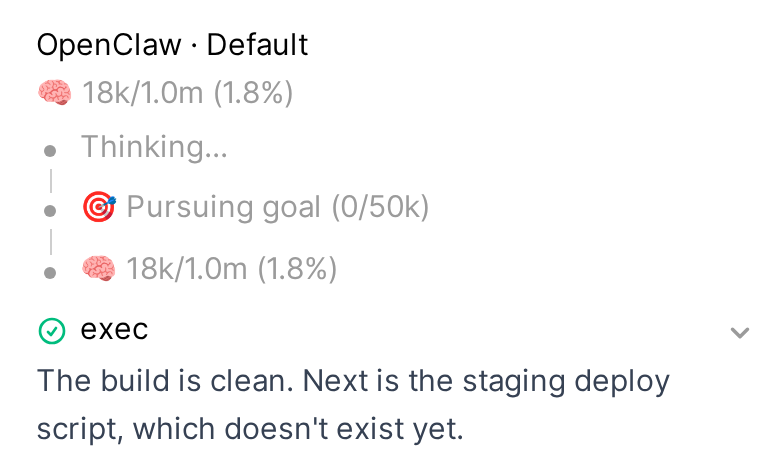
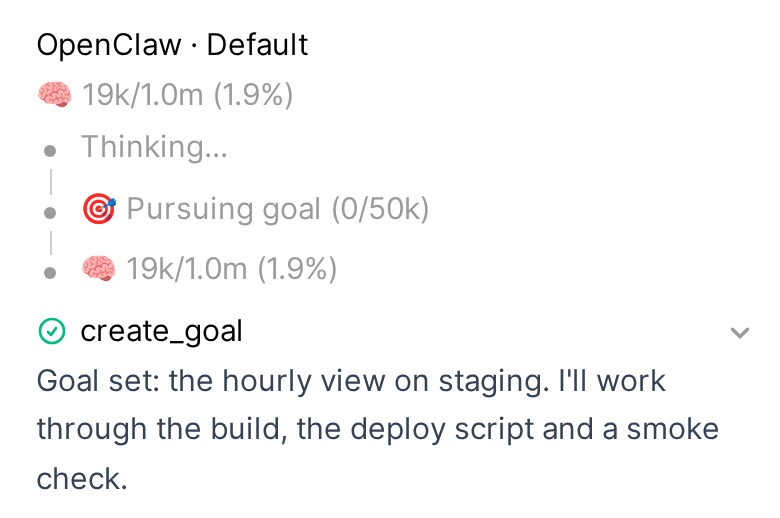
ELI-361: usage-goal scene ends the goal at the Gateway, no race with its continuation loop (#348)
* ELI-361: the usage-goal scene ends the goal at the Gateway instead of racing its continuation loop

From OpenClaw 2026.10.10 an active goal queues its own 'Advance the active goal'
turn after every clean turn, until the goal is no longer active. The scene
clicked Stop (a button that exists only while a reply streams), waited for it to
go, sent a second message and clicked Stop again at the end if it was there: all
racing the loop, and a missed final Stop leaves the loop running through every
scene after it (baseline 10 runs: 11 active goals left, 77 model requests).

The reply that sets the goal already carries the goal row, so the scene shoots
that one and clears the goal with sessions.goal.clear once the reply is done,
then waits for hasActiveRun to be false. No Stop clicks, no second message, no
sleeps.

* ELI-361: re-record usage-goal-light.png (the reply that sets the goal)

* ELI-361 review: find the session by key, wait for an idle row that was seen, end the goal when the reply wait fails (+ unit tests)

---------

diff --git a/scripts/screenshots/capture.py b/scripts/screenshots/capture.py
@@ -30,6 +30,7 @@ import time
 import traceback
 import urllib.error
 import urllib.request
+import uuid
 
 from playwright.sync_api import Page, sync_playwright
 
@@ -320,6 +321,34 @@ def gateway_call(method: str, params: dict) -> dict:
     return json.loads(out.stdout[out.stdout.find("{"):])
 
 
+def session_row(session_key: str) -> dict | None:
+    """The session's row from the Gateway (sessions.list: its goal and hasActiveRun),
+    None when it has none. Asked by key (`search`), because a stack that has run many
+    scenes holds more sessions than one page of the plain list."""
+    rows = gateway_call("sessions.list", {"search": session_key, "limit": 200}).get("sessions") or []
+    return next((r for r in rows if r.get("key") == session_key), None)
+
+
+def end_goal(session_key: str) -> None:
+    """Clear the session's goal, if it has one, and wait until it is seen idle.
+
+    From OpenClaw 2026.10.10 an active goal queues its own "Advance the active
+    goal" turn after every clean turn, and each of those queues the next, until
+    the goal is no longer active (the Gateway checks it before it starts a
+    queued one). Nothing on the page ends that: a Stop button exists only while
+    a reply streams, and a click that misses leaves the loop running through
+    every scene after. The Gateway's own goal clear does, and `hasActiveRun`
+    says when the last turn is over: the wait is for a row that is seen with no
+    goal and no active run, never for a row that is missing."""
+    goal = (session_row(session_key) or {}).get("goal")
+    if goal:
+        gateway_call("sessions.goal.clear", {"sessionKey": session_key, "goalId": goal["id"],
+                                             "operationId": str(uuid.uuid4()), "issuedAtMs": int(time.time() * 1000)})
+    poll(lambda: session_row(session_key),
+         lambda row: row is not None and not row.get("goal") and not row.get("hasActiveRun"),
+         f"the session {session_key} with no goal and no run", TURN_TIMEOUT_MS / 1000)
+
+
 def gateway_release() -> tuple:
     """(year, month, patch) of the stack's OpenClaw: some shots need a newer one."""
     out = subprocess.run(["openclaw", "--version"], capture_output=True, text=True, timeout=60)
@@ -443,7 +472,7 @@ ELAPSED_CELLS = """() => [...document.querySelectorAll('#openclaw-status-section
 FIRST_ASSISTANT = "document.querySelector('.chat-assistant')"
 REBUILD_SAYS = "Rebuilding the cache from the forecast API."
 REBUILD_DONE = "The cache is rebuilt"
-GOAL_ANSWER = "Next is the staging deploy script"
+GOAL_ANSWER = "Goal set: the hourly view on staging"
 # From OpenClaw 2026.10.10 the Gateway steers a message sent while a run works
 # into that run: the run ends its reply at the next step and the scripted
 # model answers the new message, so the rebuild's closing line is never said
@@ -1108,23 +1137,27 @@ class Scenes:
         the session's goal, which the agent set with its create_goal tool.
 
         From OpenClaw 2026.10.10 an active goal keeps the session going: after
-        each turn the Gateway queues its own "Advance the active goal" turn
-        (scenes.json answers it slowly, so the loop is a turn every few
-        seconds, not a flood). The replies of those turns pile up under the
-        scene's, so the scene holds the reply that answers its message, never
-        "the last one"."""
+        each clean turn the Gateway queues its own "Advance the active goal"
+        turn, and each of those queues the next. The scene needs no second
+        message: the reply that sets the goal already carries the goal row.
+        The moment it is finished the scene clears the goal through the
+        Gateway, so no turn of the loop runs under the shot or through the
+        scenes after (a Stop click cannot do that: see `end_goal`)."""
         new_chat(page)
         chat = send(page, "Keep at it until the hourly view is on staging.")
-        wait_js(page, last_text_has("Goal set"), "the reply that sets the goal")
-        # The goal keeps the session going, and a message sent while it does is
-        # held behind the loop for minutes (steered into a follow-up turn it
-        # cannot join). Stop ends the running turn and the queued ones; the goal
-        # stays active, and the next message is an ordinary turn.
-        page.locator('button[aria-label="Stop"]').click()
-        wait_js(page, "() => !document.querySelector('button[aria-label=\"Stop\"]')", "the goal's turn stopped")
-        send(page, "Start with the build.")
+        me = api("GET", "/api/v1/auths/", token=self.token)
         answer = reply_with(GOAL_ANSWER)
-        wait_js(page, reply_done_js(answer), "the reply that answers, finished")
+        key = f"agent:main:openwebui-{me['id']}-{chat}"
+        try:
+            wait_js(page, reply_done_js(answer), "the reply that sets the goal, finished")
+        except BaseException:
+            # The goal may exist already: without this it keeps the session going through the scenes after.
+            try:
+                end_goal(key)
+            except Exception as e:
+                print(f"  could not end the goal of {key}: {e}", flush=True)
+            raise
+        end_goal(key)
         set_title(self.token, chat, "Hourly view to staging")
         # Open the status history. From Open WebUI 0.13 a transparent "Toggle status history"
         # button lies over the status line and takes the click.
@@ -1151,10 +1184,6 @@ class Scenes:
         }}"""
         self.s.shot(page, "usage-goal", clip_js=clip,
                     text_selector=f'.chat-assistant:has-text("{GOAL_ANSWER}") >> nth=-1')
-        # The goal stays active; stop its loop so it does not run through the scenes after.
-        stop = page.locator('button[aria-label="Stop"]')
-        if stop.count():
-            stop.first.click()
 
     def compaction_note(self, page: Page) -> None:
         """A context compaction in the middle of a reply (the sample plugin

diff --git a/tests/test_usage_goal_scene_unit.py b/tests/test_usage_goal_scene_unit.py
@@ -1,0 +1,87 @@
+"""capture.py: the usage-goal scene ends the session's goal at the Gateway (ELI-361,
+review on #348): the session is found by key past the first page, the wait is for an
+idle row that was seen, and a failed reply wait clears the goal too."""
+import unittest
+from unittest import mock
+
+from _paged_sessions import PagedSessions, crowd
+from test_screenshot_selection_unit import capture
+
+KEY = "agent:main:openwebui-user-me-chat1"
+
+
+class Gateway:
+    """sessions.list and sessions.goal.clear over a PagedSessions: a clear ends the
+    goal at once, the session's last turn a few reads later."""
+
+    def __init__(self, *, goal=True, busy_reads=2, rows=None):
+        row = {"key": KEY, "hasActiveRun": True, "status": "running"}
+        if goal:
+            row["goal"] = {"id": "g1", "status": "active"}
+        self.sessions = PagedSessions(rows if rows is not None else crowd(KEY, busy=True))
+        self.row = next(r for r in self.sessions.rows if r["key"] == KEY)
+        self.row.update(row)
+        self.busy_reads, self.cleared = busy_reads, []
+
+    def __call__(self, method, params):
+        if method == "sessions.goal.clear":
+            self.cleared.append(params)
+            self.row.pop("goal", None)
+            return {}
+        out = self.sessions.list(params)
+        if not self.row.get("goal") and self.row["hasActiveRun"] and "search" in params:
+            self.busy_reads -= 1
+            if self.busy_reads <= 0:
+                self.row["hasActiveRun"] = False
+        return out
+
+
+class UsageGoalScene(unittest.TestCase):
+
+    def setUp(self):
+        for patch in (mock.patch.object(capture.time, "sleep"), mock.patch.object(capture, "TURN_TIMEOUT_MS", 50)):
+            patch.start()
+            self.addCleanup(patch.stop)
+
+    def test_the_session_is_found_by_its_key_past_the_first_page(self):
+        gateway = Gateway()
+        with mock.patch.object(capture, "gateway_call", gateway):
+            self.assertEqual(capture.session_row(KEY)["key"], KEY)
+        self.assertTrue(all("search" in c for c in gateway.sessions.calls))
+
+    def test_the_goal_is_cleared_and_the_wait_is_for_an_idle_row(self):
+        gateway = Gateway(busy_reads=3)
+        with mock.patch.object(capture, "gateway_call", gateway):
+            capture.end_goal(KEY)
+        self.assertEqual([c["goalId"] for c in gateway.cleared], ["g1"])
+        self.assertFalse(gateway.row["hasActiveRun"])
+
+    def test_no_row_is_not_an_idle_session(self):
+        with mock.patch.object(capture, "gateway_call", lambda m, p: {"sessions": []}):
+            with self.assertRaises(TimeoutError):
+                capture.end_goal(KEY)
+
+    def test_a_session_that_never_had_a_goal_is_waited_on_without_a_clear(self):
+        gateway = Gateway(goal=False, busy_reads=1)
+        with mock.patch.object(capture, "gateway_call", gateway):
+            capture.end_goal(KEY)
+        self.assertEqual(gateway.cleared, [])
+
+    def test_a_failed_reply_wait_still_ends_the_goal(self):
+        scenes = capture.Scenes.__new__(capture.Scenes)
+        scenes.token = "t"
+        ended = []
+        with mock.patch.object(capture, "new_chat"), \
+                mock.patch.object(capture, "send", return_value="chat1"), \
+                mock.patch.object(capture, "api", return_value={"id": "user-me"}), \
+                mock.patch.object(capture, "reply_with", return_value="answer"), \
+                mock.patch.object(capture, "reply_done_js", return_value="js"), \
+                mock.patch.object(capture, "wait_js", side_effect=TimeoutError("no reply")), \
+                mock.patch.object(capture, "end_goal", side_effect=ended.append):
+            with self.assertRaises(TimeoutError):
+                scenes.usage_goal(object())
+        self.assertEqual(ended, [KEY])
+
+
+if __name__ == "__main__":
+    unittest.main()
